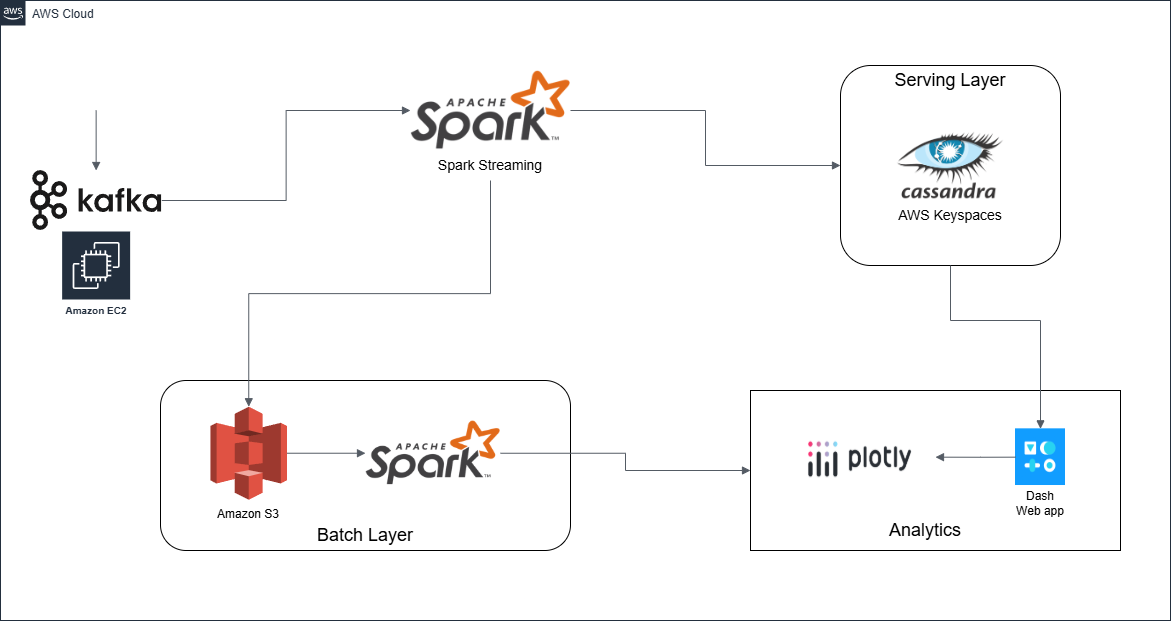
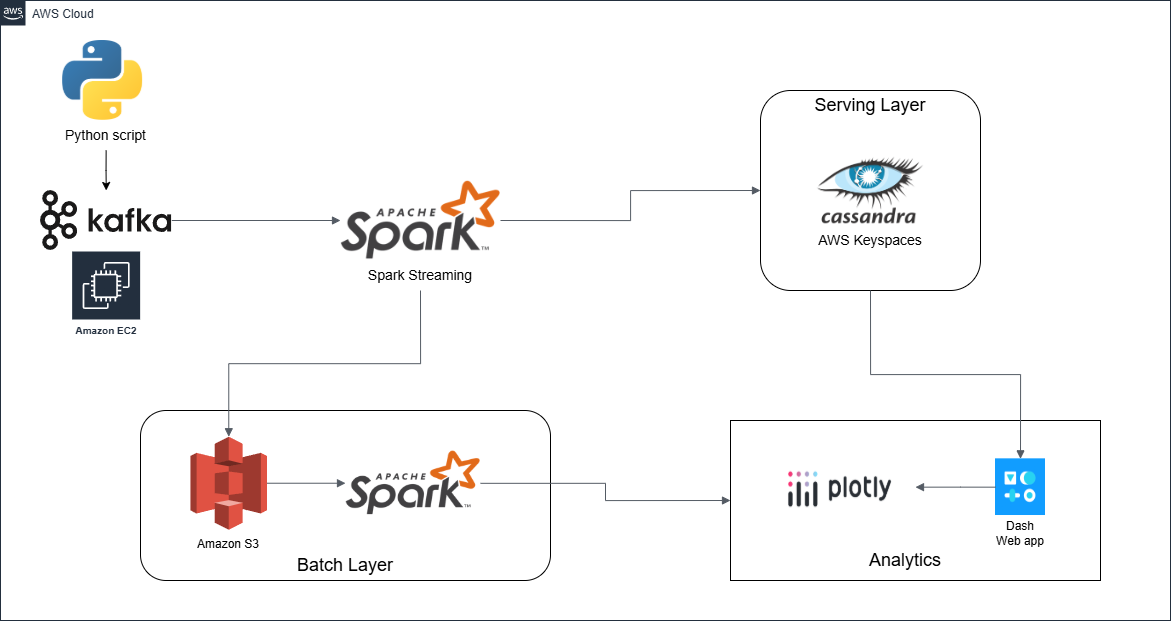
add code files

diff --git a/visualization/visualization.py b/visualization/visualization.py
@@ -1,0 +1,150 @@
+import dash
+from dash import dcc, html
+from dash.dependencies import Input, Output
+import plotly.express as px
+from cassandra.cluster import Cluster
+from ssl import SSLContext, PROTOCOL_TLSv1_2, CERT_REQUIRED
+from cassandra.auth import PlainTextAuthProvider
+import pandas as pd
+import configparser
+import datetime 
+
+# Configuration
+config = configparser.ConfigParser()
+config.read('config.py')
+
+USERNAME = config['CREDENTIALS']['Username']
+PASSWD = config['CREDENTIALS']['Password']
+CERT = config['CREDENTIALS']['Cert']
+KEYSPACE = config['KEYSPACES']['Keyspace']
+TABLE = config['KEYSPACES']['Table']
+
+# Setup Cassandra connection
+ssl_context = SSLContext(PROTOCOL_TLSv1_2)
+ssl_context.load_verify_locations(CERT)
+ssl_context.verify_mode = CERT_REQUIRED
+auth_provider = PlainTextAuthProvider(username=USERNAME, password=PASSWD)
+
+cluster = Cluster(['cassandra.us-east-1.amazonaws.com'], ssl_context=ssl_context, auth_provider=auth_provider, port=9142)
+session = cluster.connect()
+session.set_keyspace(KEYSPACE)
+
+# Initialize Dash app
+app = dash.Dash(__name__)
+app.layout = html.Div([
+    html.H1("Real-Time Log Analytics Dashboard"),
+    dcc.Graph(id='latency-trend'),          # Line chart for latency trend
+    dcc.Graph(id='request-time-series'),    # Time series for request counts
+    dcc.Graph(id='method-bar-chart'),       # Bar chart for HTTP method counts
+    dcc.Graph(id='url-bar-chart'),          # Bar chart for most accessed URLs
+    dcc.Graph(id='error-pie-chart'),        # Pie chart for error responses
+    html.Div(id='live-update-table'),       # Table for recent logs
+    dcc.Interval(
+        id='interval-component',
+        interval=10*1000,  # 10 seconds
+        n_intervals=0
+    )
+])
+
+# Helper function to fetch data from Cassandra
+def fetch_data():
+    now = datetime.datetime.now(datetime.timezone.utc)
+    current_minute_bucket = now.strftime("%Y-%m-%d-%H-%M")  # Current minute
+    # TODO: REMOVE LATER
+    # current_minute_bucket = "2025-01-23-02-54"
+    
+    query = f"""
+    SELECT * FROM log_analytics.logs_table
+    WHERE time_bucket = '{current_minute_bucket}'
+    ORDER BY time DESC
+    """
+    print("TRIGGER : QUERYING CASSANDRA")
+    rows = session.execute(query)
+    data = pd.DataFrame(rows.current_rows)
+
+    return data
+
+# Callback to update visualizations
+@app.callback(
+    [Output('latency-trend', 'figure'),
+     Output('request-time-series', 'figure'),
+     Output('method-bar-chart', 'figure'),
+     Output('url-bar-chart', 'figure'),
+     Output('error-pie-chart', 'figure'),
+     Output('live-update-table', 'children')],
+    [Input('interval-component', 'n_intervals')]
+)
+def update_graphs(n_intervals):
+    # Fetch the latest data
+    df = fetch_data()
+
+    try:
+        # Ensure columns have the correct data types
+        df['time'] = pd.to_datetime(df['time'])
+        df['latency'] = pd.to_numeric(df['latency'], errors='coerce')
+
+        # Latency Trend
+        latency_fig = px.line(
+            df,
+            x='time',
+            y='latency',
+            title="Latency Trend Over Time"
+        )
+
+        # Time Series for Requests
+        df['time_minute'] = df['time'].dt.floor('T')  # Round to minute
+        requests_over_time = df.groupby(['time_minute', 'method']).size().reset_index(name='count')
+        time_series_fig = px.line(
+            requests_over_time,
+            x='time_minute',
+            y='count',
+            color='method',
+            title="Requests Over Time by HTTP Method"
+        )
+
+        # HTTP Method Count
+        method_fig = px.bar(
+            df['method'].value_counts().reset_index(),
+            x='method',
+        y='count',
+        title="HTTP Method Count",
+        labels={'index': 'HTTP Method', 'method': 'Count'}
+        )
+
+        # Top Accessed URLs
+        url_count = df['url'].value_counts().reset_index()
+        url_count.columns = ['url', 'count']
+        url_bar_fig = px.bar(
+            url_count.head(10),
+            x='url',
+            y='count',
+            title="Top 10 Most Accessed URLs"
+        )
+
+        # Error Responses
+        error_counts = df[df['response'].astype(int) >= 400]['response'].value_counts().reset_index()
+        error_counts.columns = ['response', 'count']
+        error_pie_fig = px.pie(
+            error_counts,
+            names='response',
+            values='count',
+            title="Error Response Code Distribution"
+        )
+
+        # Recent Logs Table
+        table = html.Table([
+            html.Thead(html.Tr([html.Th(col) for col in df.columns])),
+            html.Tbody([
+                html.Tr([html.Td(df.iloc[i][col]) for col in df.columns]) for i in range(min(len(df), 10))
+            ])
+        ])
+    
+    except Exception as e:
+        print("Failed due to : ", e)
+    
+    return latency_fig, time_series_fig, method_fig, url_bar_fig, error_pie_fig, table
+
+
+# Run the Dash app
+if __name__ == '__main__':
+    app.run_server(debug=True, host='0.0.0.0', port=8080)

diff --git a/visualization/config.py b/visualization/config.py
@@ -1,0 +1,8 @@
+[CREDENTIALS]
+Username = YOUR_USERNAME
+Password = YOUR_PASSWORD
+Cert = YOUR_CRT_FILE_PATH
+
+[KEYSPACES]
+Keyspace = YOUR_KEYSPACE_NAME
+Table = YOUR_TABLE_NAME

diff --git a/spark/config.py b/spark/config.py
@@ -1,0 +1,7 @@
+[KAFKA]
+broker = YOUR_KAFKA_BROKER_URL
+topic = YOUR_KAFKA_TOPIC_NAME
+
+[KEYSPACES]
+Keyspace = YOUR_KEYSPACE_NAME
+Table = YOUR_TABLE_NAME

diff --git a/README.md b/README.md
@@ -1,70 +1,77 @@
 # Real-Time Data Streaming and Visualization Project
 
-This project demonstrates real-time data streaming, processing, and visualization using Apache Kafka, PySpark, and Cassandra. The goal is to ingest, process, and visualize data  efficiently Dash on GitHub Pages.
+This project demonstrates real-time data streaming, processing, and visualization using **Apache Kafka**, **PySpark**, **Cassandra** and an interactive Python **Dash dashboard** that visualizes the processed data. Initially, the visualization was hosted on an EC2 instance to provide real-time updates. For cost-effectiveness and simplicity in presentation, a static version of the dashboard was later hosted online.
 
 ## Overview
 
 Here you want to write a short overview of the goals of your project and how it works at a high level. If possible, include one or two images of the end product and architecture diagram (see examples below). diagrams.net is a great tool for creating architecture diagrams.
 
 <!-- ### Data Visualization
-
 ![Example dashboard image](example-dashboard.png) -->
 
 ### Data Architecture
 
 ![Example architecture image](log-project-architecture.png)
 
-Data Ingestion:
-
-I am using a python script to generate 2 logs/second and publish it to kafka  
-Data is streamed into Kafka topics in real-time.
-Kafka serves as the messaging layer between the data producers and consumers.
-
-Data Processing:
-PySpark Structured Streaming is used to process the data from Kafka in real-time with a 
-trigger time of every 10 seconds.
-Data is cleaned, transformed, and written to Amazon Keyspaces (Cassandra) for storage.
-
-Data Visualization:
-A Dash app is created to visualize the streaming data in real-time using callback to refresh the dashboard.
-The app is converted to a static HTML file and hosted on GitHub Pages.
-
-
-If you decide to include this, you should also talk a bit about why you chose the architecture and tools you did for this project.
-
-I used kafka because it the best system for ingesting streaming data. similarly spark streaming provides a lot of support for streaming data use-cases
-I used cassandra (or AWS Keyspaces) because I need a low latency fast storage and retrieval data store to support my real-time dashboard.
+The project simulates a real-time system to generate logs, process them, and visualize the insights through a dashboard. It includes:
+1. **Data Ingestion**: Logs are generated at 2 logs/second and sent to Kafka.
+2. **Data Processing**: PySpark Structured Streaming processes logs from Kafka every 10 seconds.
+3. **Data Storage**: Transformed data is stored in Amazon Keyspaces (Cassandra) for real-time querying and in s3 as a data lake for future querying.
+4. **Data Visualization**: A Python Dash dashboard visualizes stored data in real-time.
 
 ## Technologies Used
 
-1. Data Streaming and Processing
-Apache Kafka: For real-time data ingestion and message streaming.
-PySpark Structured Streaming: For processing and transforming data streams.
-2. Data Storage
-Amazon Keyspaces (Cassandra): For storing processed data in a distributed, scalable manner.
-3. Visualization
-Dash: For building interactive dashboards and data visualization.
-Plotly: For creating visually appealing and dynamic graphs.
-4. Hosting
-GitHub Pages: For hosting a static version of the Dash dashboard.
+### **1. Data Streaming and Processing**
+- **Apache Kafka**: For real-time log ingestion.
+- **PySpark Structured Streaming**: For scalable stream processing.
+
+### **2. Data Storage**
+- **Amazon Keyspaces (Cassandra)**: For low-latency, distributed data storage.
+- **Amazon S3**: For storing raw data for batch processing.
+
+### **3. Visualization**
+- **Dash**: For building interactive dashboards.
+- **Plotly**: For creating visually engaging graphs.
+
+### **4. Hosting**
+- **Amazon EC2**: For hosting Kafka, Spark, and the Dash web application.
 
 ## Directory Structure
 ```
-HOW SHOULD I STRUCTURE MY CODE? I have these files:
-1) log-generation script which was running in the same ec2 as kafka
-2) process-script which was on spark streaming ec2 along with a configuration file
-3) one python script visualization.py which has the visualizations with dash web-app and plotly
-4) then there are 2 config files one architecture diagram 
+├── kafka/
+│   └── log_generator.py        # Script to generate logs and send to Kafka
+│
+├── spark/
+│   ├── process_logs.py         # Spark Structured Streaming script to process logs
+│   ├── application.conf        # Configuration file for Keyspaces-Spark Connector
+│   └── config.py               # Configuration file for Spark
+│
+├── visualization/
+│   ├── app.py                  # Dash web application for visualization
+│   └── assets/                 # Static CSS, images, etc.
+│
+├── architecture-diagram.png    # Architecture diagram for the project
+│
+└── README.md                   # Documentation for the project
 ```
 
-## Prerequisites
+## **Prerequisites**
 
-Directions needed for running the project under free tier on AWS.
+### **Steps to Recreate the Project on AWS Free Tier:**
+- **Launch EC2 Instances (t2.micro or larger depending on data volume)**
+   - Kafka and Zookeeper
+        - Create a topic named `logs` in Kafka.
+        - Update the configuration file.
+   - Spark cluster for both real-time and batch processing
+        - Update the configuration file.
+   - Dash web application
 
-- Launch 3 EC2 instances of t2.micro type from the AWS Console.
-- Install and setup Kafka and zookeeper on 1st instance and create a topic named logs in Kafka
-- Install and setup Spark on 2nd instance
-- Install and setup Dash on 3rd instance
+- **Key Setup Steps:**
+   - Install and configure Kafka and Zookeeper on the first instance.
+   - Install Spark on the second instance and configure it for both structured streaming and batch jobs.
+   - Install Dash and Plotly on the third instance for visualizing the processed data.
+
+---
 
 ## Future Improvements
 
@@ -73,7 +80,3 @@ To make this project easier to deploy, replicate, and scale, the following enhan
 1. Cloud Infrastructure Automation with Terraform: Automate the provisioning of EC2 instances, Amazon Keyspaces, and other AWS resources.
 2. Containerization with Docker: Use Docker containers to encapsulate various components like Kafka, Spark, and the Dash app.
 3. Streamlined Deployment: Combine Terraform and Docker for end-to-end automation.
-
-## Lessons Learned
-
-It's good to reflect on what you learned throughout the process of building this project. Here you might discuss what you would have done differently if you had more time/money/data. Did you end up choosing the right tools or would you try something else next time?
